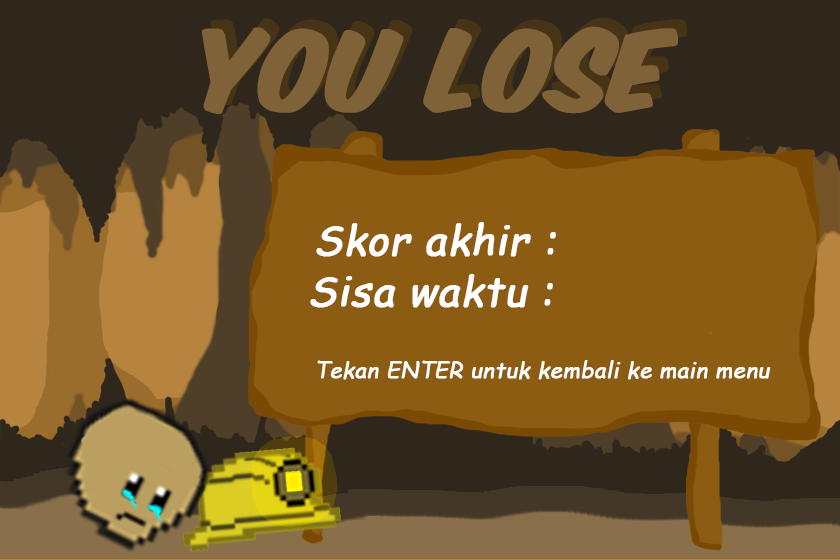
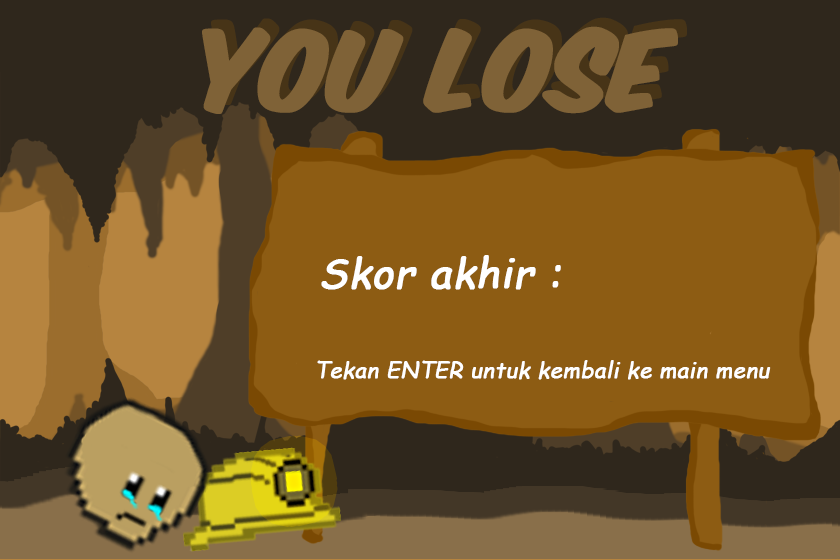
gameover

Changed region(s): [[0.3714, 0.3946, 0.681, 0.5464], [0.65, 0.425, 0.681, 0.4554]]

diff --git a/Project/background.py b/Project/background.py
@@ -69,6 +69,7 @@ delay = 0.1
 last = 0
 
 # game variables
+treasurefound = False
 highscore = False
 play = False
 paused = False
@@ -181,6 +182,8 @@ choice4 = pygame.image.load("choice4.png").convert_alpha()
 
 #gameover images
 gameoverbg = pygame.image.load("gameover_score.png").convert_alpha()
+gameoverpage = pygame.image.load("gameoverpage.png").convert_alpha()
+treasurefoundpage = pygame.image.load("treasurefoundpage.png").convert_alpha()
 
 def draw_text(text,font,text_col,x,y):
     img = font.render(text,True,text_col)
@@ -526,8 +529,8 @@ def draw_seconds():
     screen.blit(second_surface,(730,10))
 
 def draw_gameover():
-    screen.blit(menu_bg, (0,0))
-    screen.blit(gameoverbg, (100,100))
+    if treasurefound : screen.blit(treasurefound, (0,0))
+    else : screen.blit(gameoverpage, (0,0))
 
 def draw_paused():
     screen.blit(paused_bg, (0,0))
@@ -969,11 +972,13 @@ while run:
     elif gameover:
         draw_gameover()
         backtomenu = pygame.key.get_pressed()
+        writescore = my_font.render(str(score), True, (255,255,255))
+        screen.blit(writescore, (600, 255))
         if score > high_score:
             high_score = score
             with open('score.txt', 'w') as file:
                 file.write(str(high_score))
-        if backtomenu[pygame.K_SPACE]:
+        if backtomenu[pygame.K_BACKSPACE]:
             
             # redraw cave
             cave = Cave()
